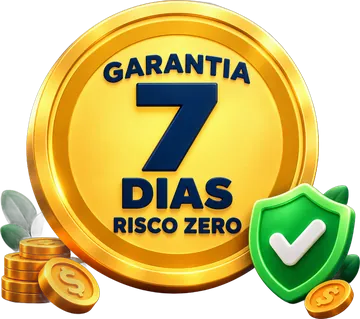
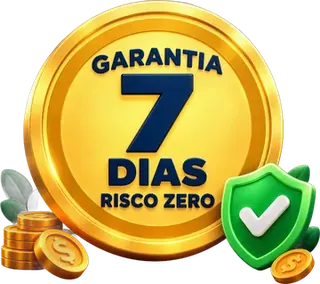
Velocidade: topo sem animação de entrada (LCP) e imagens comprimidas
Claude-Session: https://claude.ai/code/session_013m6zLxzqqgeCHQgghX7v9o

diff --git a/index.html b/index.html
@@ -436,9 +436,9 @@ fbq('init','2452932315525419');fbq('track','PageView');
    <span><svg viewBox="0 0 24 24" fill="none" stroke="#E0A61B" stroke-width="2.4" stroke-linecap="round" stroke-linejoin="round"><circle cx="9" cy="8" r="3.5"/><path d="M2.5 20c0-3.6 2.9-6 6.5-6s6.5 2.4 6.5 6M16 4.6a3.5 3.5 0 0 1 0 6.8M18 14.3c2 .8 3.5 2.8 3.5 5.7"/></svg><b>+16.327</b> já receberam</span>
    <span><svg viewBox="0 0 24 24" fill="none" stroke="#13924f" stroke-width="2.4" stroke-linecap="round" stroke-linejoin="round"><path d="M12 2.5l8 3v6c0 5-3.5 8.8-8 10.5-4.5-1.7-8-5.5-8-10.5v-6z"/><path d="M8.5 12l2.5 2.5L16 9.5"/></svg>Regras <b>2026</b></span>
   </div>
-  <p class="hero-copy rv">O <b>Mapa da Multa de Radar</b> coloca tudo o que você precisa fazer com a notificação em fichas visuais. Você descobre <b>se a sua multa tem erro</b>, <b>como se defender</b> e <b>como pagar o mínimo</b>.</p>
-  <p class="no-list rv">Sem ler o Código de Trânsito. Sem pagar advogado à toa.</p>
-  <ul class="checks rv">
+  <p class="hero-copy">O <b>Mapa da Multa de Radar</b> coloca tudo o que você precisa fazer com a notificação em fichas visuais. Você descobre <b>se a sua multa tem erro</b>, <b>como se defender</b> e <b>como pagar o mínimo</b>.</p>
+  <p class="no-list">Sem ler o Código de Trânsito. Sem pagar advogado à toa.</p>
+  <ul class="checks">
    <li>A resposta em 10 minutos: recorrer ou pagar</li>
    <li>O checklist do radar: 7 erros que derrubam a multa</li>
    <li>A tabela da sua multa: média, grave ou gravíssima</li>
@@ -448,7 +448,7 @@ fbq('init','2452932315525419');fbq('track','PageView');
    <li>Pague com 40% de desconto: o passo a passo do SNE</li>
    <li>Defesa negada: o recurso à JARI e ao CETRAN</li>
   </ul>
-  <p class="hero-price rv">de <s>R$ 97,00</s> por apenas <b>R$ 37,00</b> hoje</p>
+  <p class="hero-price">de <s>R$ 97,00</s> por apenas <b>R$ 37,00</b> hoje</p>
   <a class="btn one" href="#planos" style="margin-top:16px">QUERO O MAPA DA MULTA <svg width="20" height="20" viewBox="0 0 24 24" fill="none" stroke="currentColor" stroke-width="3" stroke-linecap="round" stroke-linejoin="round"><path d="M5 12h14M13 6l6 6-6 6"/></svg></a>
   <div class="cnote"><span>⚡ Acesso imediato</span><span>🛡 Garantia de 7 dias</span></div>
   <p class="deliver">Você recebe tudo na hora, direto no seu <b>e-mail</b></p>
